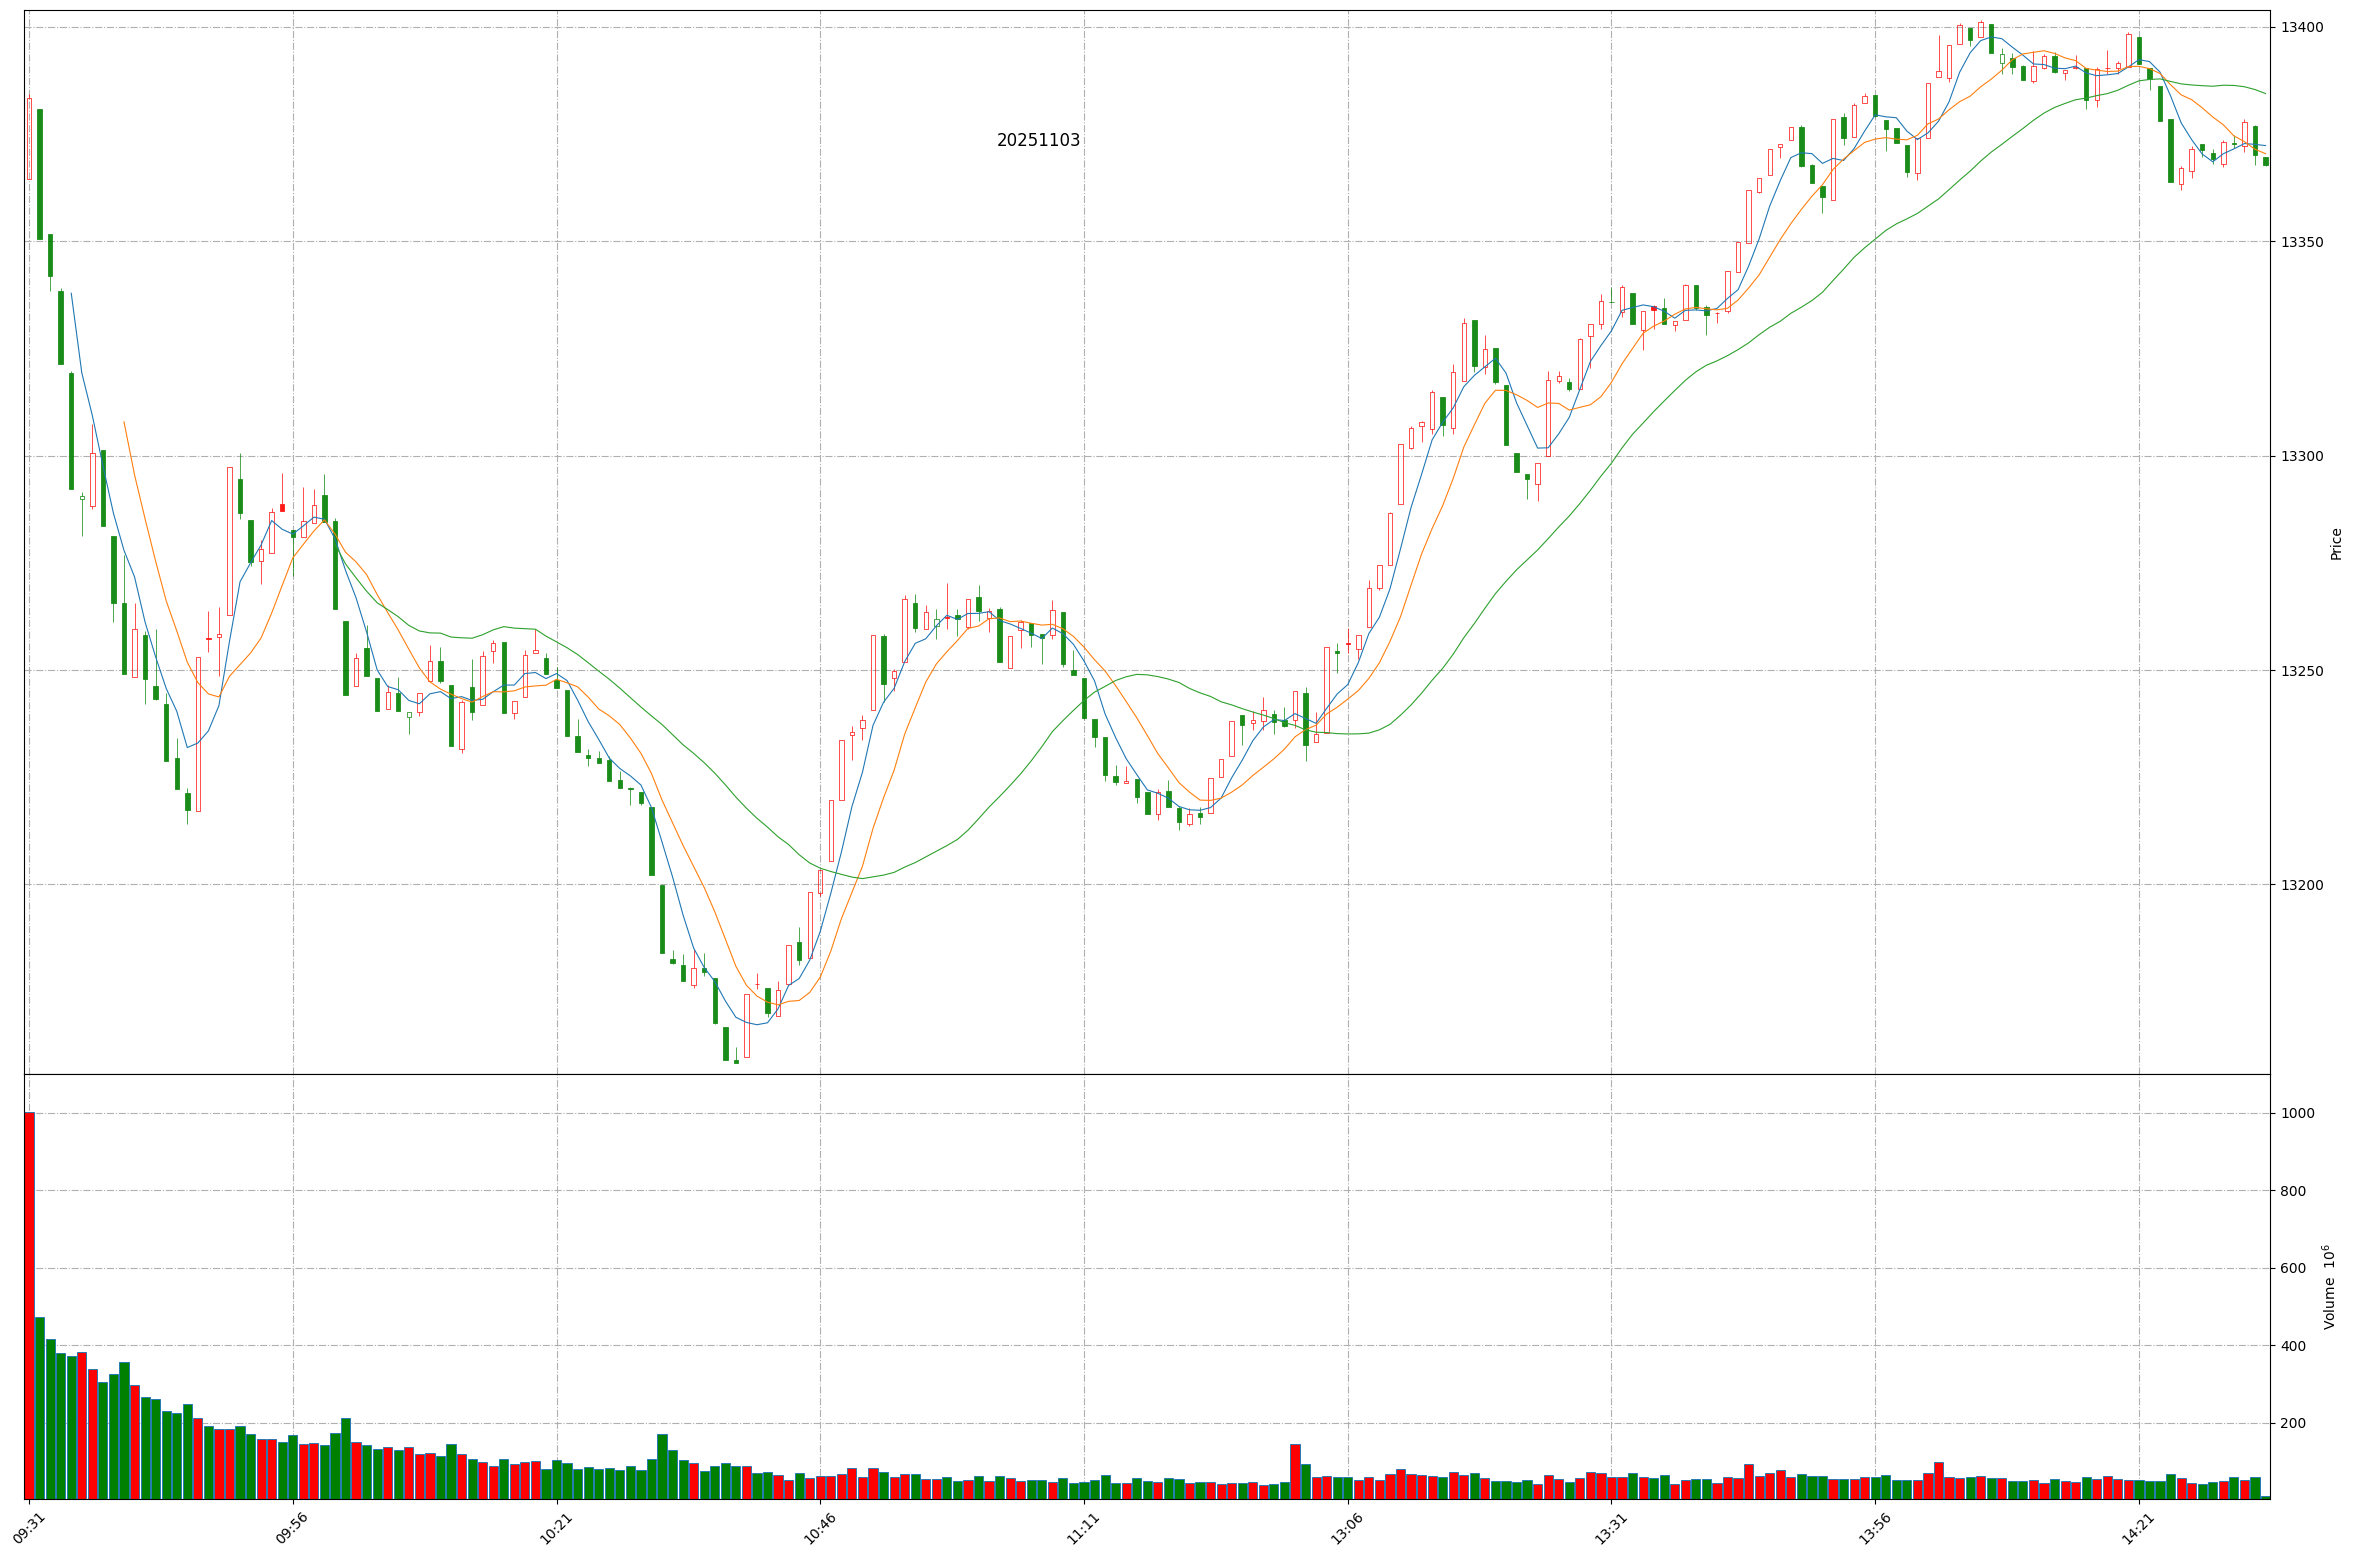
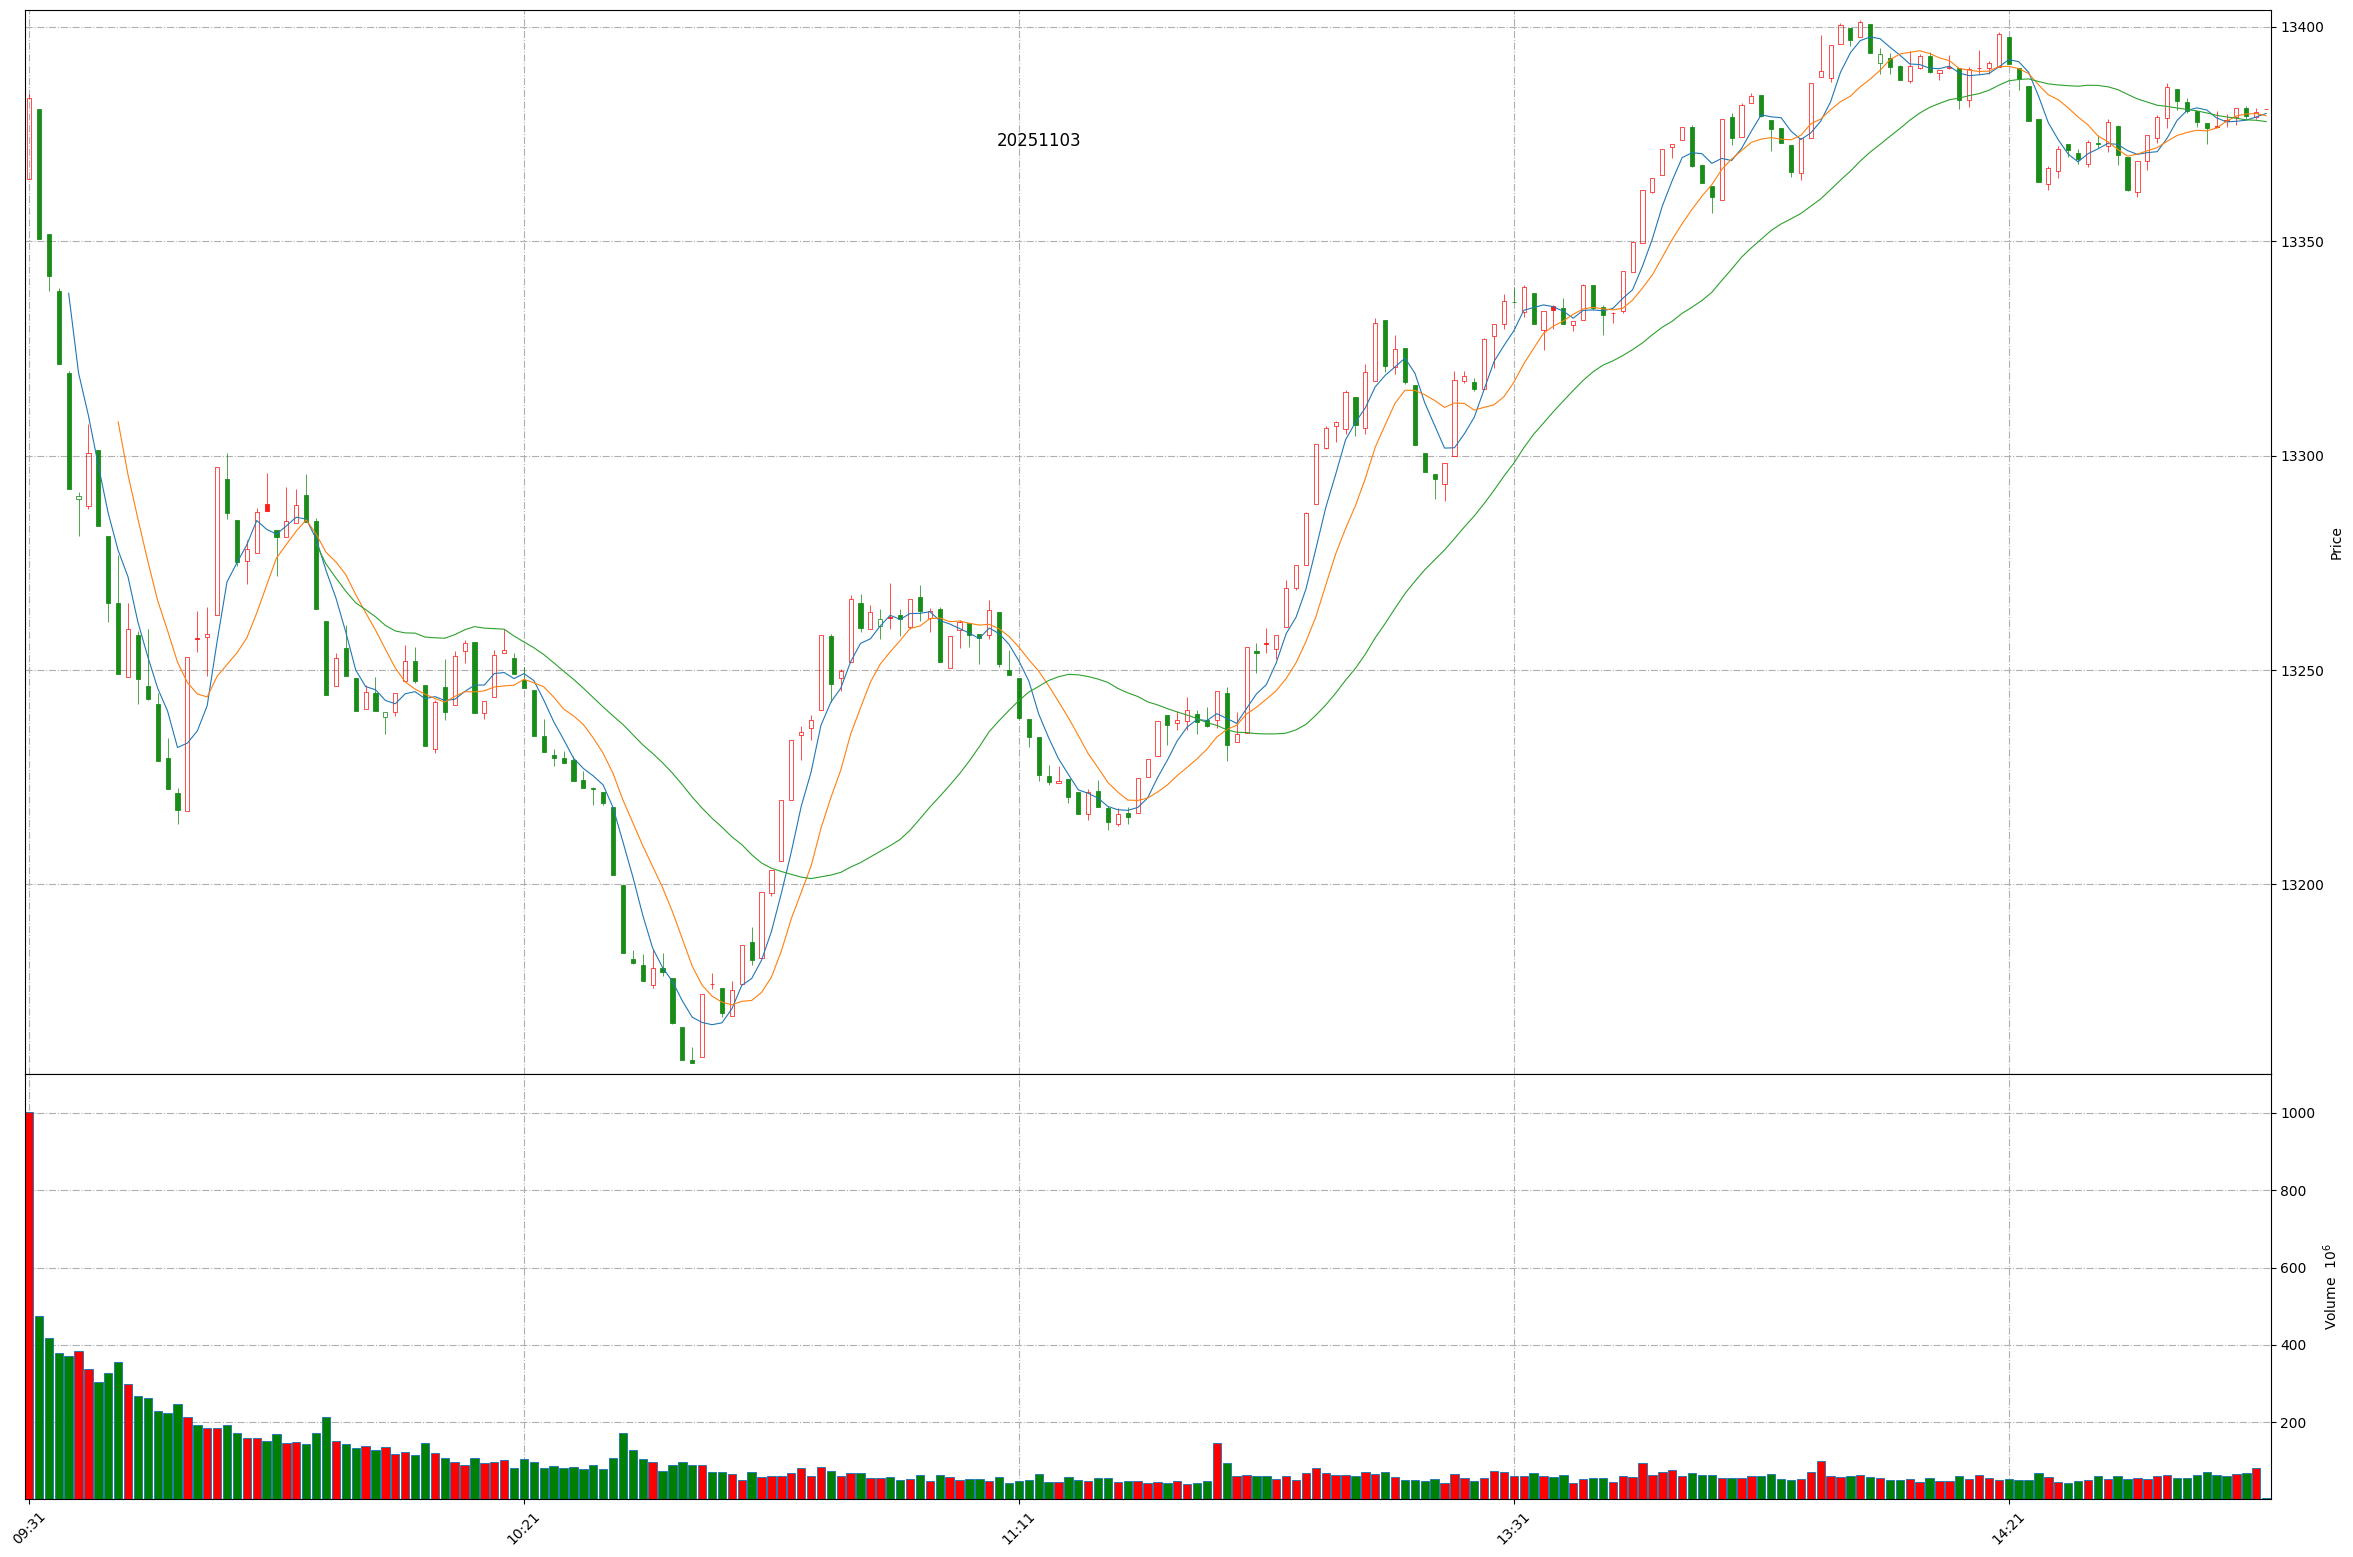
Github action update at 2025-11-03 14:46:24.

diff --git a/README.md b/README.md
@@ -1,11 +1,11 @@
 
 # Daily-A-share-market-quotes 每日 A 股指数（5min 更新）- 20251103
 
-### 上证指数 20251103 14:32
+### 上证指数 20251103 14:46
 ![](./fig/2025/11/20251103-sh000001.png)
 
-### 深证成指 20251103 14:32
+### 深证成指 20251103 14:46
 ![](./fig/2025/11/20251103-sz399001.png)
 
-### 北证50 20251103 14:32
+### 北证50 20251103 14:46
 ![](./fig/2025/11/20251103-bj899050.png)
